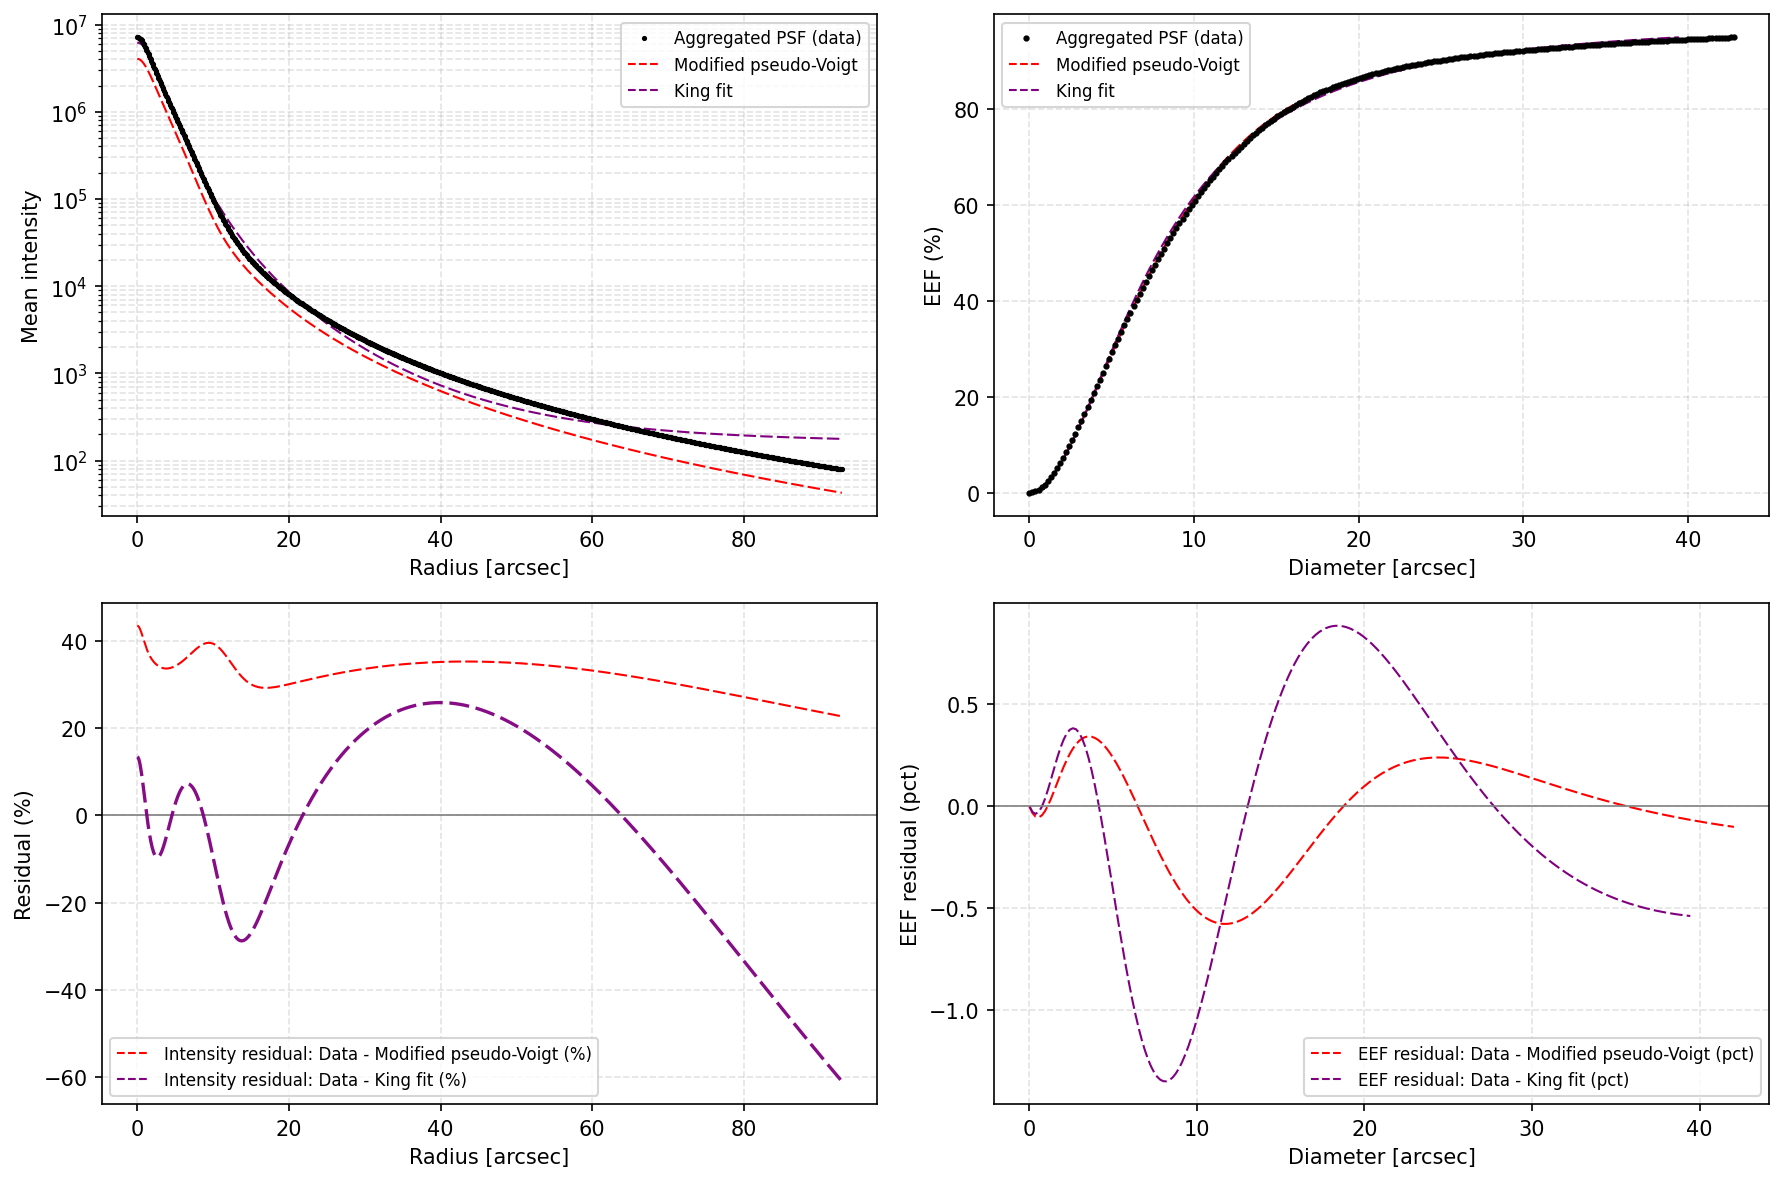
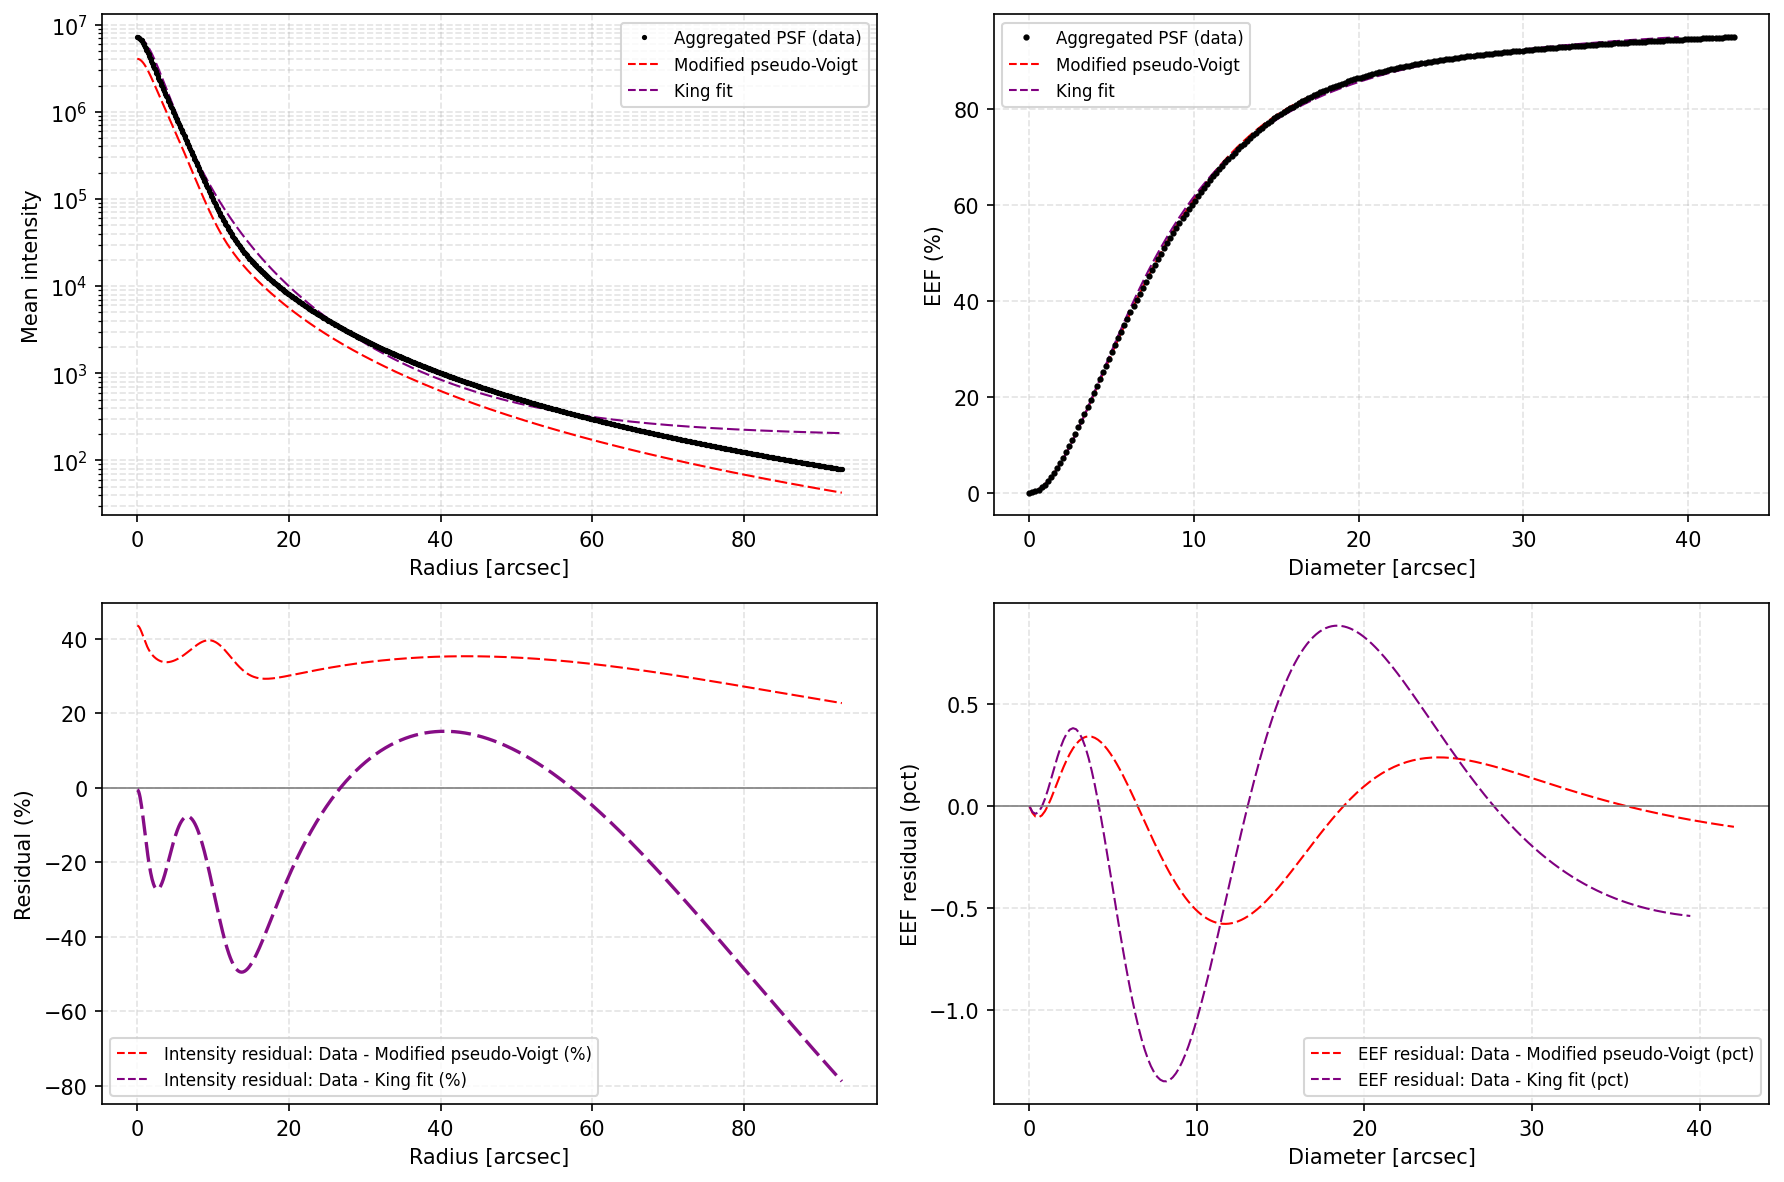
extra cmmit on the batch feature. general clean up

diff --git a/main.py b/main.py
@@ -6911,6 +6911,10 @@ if __name__ == '__main__':
         export_batch_dir = os.path.join(exports_root, f"Export_{src_stem}_{batch_ts}")
         os.makedirs(export_batch_dir, exist_ok=True)
 
+        # Prepare aggregated results collector
+        aggregated_rows = []
+        agg_columns = None
+
         for rid, crow in combos.iterrows():
             try:
                 prefix = str(crow.iat[1]).strip()
@@ -7024,6 +7028,16 @@ if __name__ == '__main__':
             except Exception as e:
                 print(f"Failed to modify workbook {new_path}: {e}")
                 continue
+
+            # Compute HEW/EEF metrics for this modified workbook (no plotting)
+            metrics = {}
+            try:
+                try:
+                    metrics = compute_hew_eef_metrics(new_path, sheet=args.sheet if hasattr(args, 'sheet') else 'MM_PSF', normalize=getattr(args, 'normalize', True), fast=True)
+                except Exception:
+                    metrics = compute_hew_eef_metrics(new_path)
+            except Exception as e:
+                print(f"Warning: failed to compute HEW/EEF metrics for {new_basename}: {e}")
 
             # Run this script on the modified workbook with --export-package
             try:
@@ -7144,6 +7158,81 @@ if __name__ == '__main__':
                                     except Exception:
                                         pass
                         print(f"Created package from export folder: {zip_target}")
+                        # Remove the package folder now that a zip archive exists
+                        try:
+                            if 'pkg_path' in locals() and os.path.isdir(pkg_path):
+                                shutil.rmtree(pkg_path)
+                                print(f"Removed intermediate package folder: {pkg_path}")
+                        except Exception as e:
+                            print(f"Warning: failed to remove package folder {pkg_path}: {e}")
+                        # Extract fit parameters and EEF curves if available and append aggregated row
+                        try:
+                            fit_map = {}
+                            eef80 = None
+                            eef90 = None
+                            if 'pkg_path' in locals() and os.path.isdir(pkg_path):
+                                fp = os.path.join(pkg_path, 'EEF_fittingparams.xlsx')
+                                if os.path.exists(fp):
+                                    try:
+                                        df_fit = pd.read_excel(fp, sheet_name='Fit_parameters', engine='openpyxl')
+                                        if 'parameter' in df_fit.columns and 'value' in df_fit.columns:
+                                            fit_map = dict(zip(df_fit['parameter'].astype(str), df_fit['value']))
+                                    except Exception:
+                                        fit_map = {}
+                                    try:
+                                        df_eef = pd.read_excel(fp, sheet_name='EEF_curves', engine='openpyxl')
+                                        if 'diameter_arcsec' in df_eef.columns and 'EEF_aggregated_pct' in df_eef.columns:
+                                            pct = pd.to_numeric(df_eef['EEF_aggregated_pct'], errors='coerce').to_numpy()
+                                            diam = pd.to_numeric(df_eef['diameter_arcsec'], errors='coerce').to_numpy()
+                                            order = np.argsort(pct)
+                                            pct_s = pct[order]
+                                            diam_s = diam[order]
+                                            if np.nanmin(pct_s) <= 80.0 <= np.nanmax(pct_s):
+                                                eef80 = float(np.interp(80.0, pct_s, diam_s))
+                                            if np.nanmin(pct_s) <= 90.0 <= np.nanmax(pct_s):
+                                                eef90 = float(np.interp(90.0, pct_s, diam_s))
+                                    except Exception:
+                                        eef80 = None
+                                        eef90 = None
+                        except Exception:
+                            fit_map = {}
+                            eef80 = None
+                            eef90 = None
+                        # Build aggregated row (include offaxis [arcmin], energy [keV], defocus [mm])
+                        try:
+                            row = {
+                                'configuration_number': int(rid) + 1,
+                                'configuration_name': prefix,
+                                'offaxis_arcmin': offaxis_val,
+                                'energy_keV': energy_val,
+                                'defocus_mm': defocus_val,
+                                'HEW_00_arcsec': metrics.get('hew_origin_arcsec') if isinstance(metrics, dict) else None,
+                                'HEW_min_arcsec': metrics.get('hew_best_arcsec') if isinstance(metrics, dict) else None,
+                                'EEF80_min_arcsec': eef80 if eef80 is not None else None,
+                                'EEF90_min_arcsec': eef90 if eef90 is not None else (metrics.get('eef90_best_arcsec') if isinstance(metrics, dict) else None),
+                            }
+                        except Exception:
+                            row = {'configuration_number': int(rid) + 1, 'configuration_name': prefix, 'offaxis_arcmin': offaxis_val, 'energy_keV': energy_val, 'defocus_mm': defocus_val}
+                        pv_keys = ['Modified_PV_Amplitude_A', 'Modified_PV_Gamma_c_arcsec', 'Modified_PV_Gamma_w_arcsec', 'Modified_PV_eta', 'Modified_PV_beta', 'Modified_PV_scalar']
+                        for k in pv_keys:
+                            row[k] = fit_map.get(k) if isinstance(fit_map, dict) else None
+                        p4_keys = ['Pearson4_Amplitude', 'Pearson4_Center_arcsec', 'Pearson4_Sigma_arcsec', 'Pearson4_Exponent_m', 'Pearson4_Skew_nu']
+                        for k in p4_keys:
+                            row[k] = fit_map.get(k) if isinstance(fit_map, dict) else None
+                        king_keys = ['King_I0', 'King_rc_arcsec', 'King_alpha', 'King_b']
+                        for k in king_keys:
+                            row[k] = fit_map.get(k) if isinstance(fit_map, dict) else None
+                        row['King_extra'] = None
+                        aggregated_rows.append(row)
+                        # Write/update aggregated Excel immediately in the export folder
+                        try:
+                            df_agg_now = pd.DataFrame(aggregated_rows)
+                            out_agg_now = os.path.join(export_batch_dir, f"Aggregated_results_{src_stem}.xlsx")
+                            with pd.ExcelWriter(out_agg_now, engine='openpyxl') as writer:
+                                df_agg_now.to_excel(writer, sheet_name='Aggregated', index=False)
+                            print(f"Updated aggregated results: {out_agg_now}")
+                        except Exception as e:
+                            print(f"Warning: failed to update aggregated Excel after {prefix}: {e}")
                     except Exception as e:
                         print(f"Failed to create package archive: {e}")
                 else:
@@ -7155,6 +7244,32 @@ if __name__ == '__main__':
                     print(f"Created fallback package (workbook only): {zip_target}")
             except Exception as e:
                 print(f"Failed to create package for {prefix}: {e}")
+
+        # Write aggregated results workbook and copy the combinations file + input workbook into the export folder
+        try:
+            if aggregated_rows:
+                try:
+                    df_agg = pd.DataFrame(aggregated_rows)
+                    out_agg = os.path.join(export_batch_dir, f"Aggregated_results_{src_stem}.xlsx")
+                    with pd.ExcelWriter(out_agg, engine='openpyxl') as writer:
+                        df_agg.to_excel(writer, sheet_name='Aggregated', index=False)
+                    print(f"Wrote aggregated results to {out_agg}")
+                except Exception as e:
+                    print(f"Failed to write aggregated results Excel: {e}")
+            # Copy combinations file used to run the batch into the export folder
+            try:
+                if os.path.exists(comb_path):
+                    shutil.copy2(comb_path, os.path.join(export_batch_dir, os.path.basename(comb_path)))
+            except Exception as e:
+                print(f"Failed to copy combinations file into export folder: {e}")
+            # Copy the original input workbook used as source for the batch
+            try:
+                if os.path.exists(args.file):
+                    shutil.copy2(args.file, os.path.join(export_batch_dir, os.path.basename(args.file)))
+            except Exception:
+                pass
+        except Exception:
+            pass
 
         # Completed batch processing
         sys.exit(0)

diff --git a/tmp_success_setup.py b/tmp_success_setup.py
@@ -1,0 +1,28 @@
+from openpyxl import Workbook
+import pandas as pd
+from pathlib import Path
+p=Path('tmp_success/Distributions/sample_input.xlsx')
+p.parent.mkdir(parents=True, exist_ok=True)
+wb=Workbook()
+# Thermal
+ws=wb.active; ws.title='Thermal'
+ws.append(['Position #','d_therm_rotx','d_therm_roty','d_therm_z'])
+ws.append([1,0.0,0.0,0.0])
+# Vignetting sheets (simple)
+ws2=wb.create_sheet('Vignetting rotrad'); ws2.append(['col1','col2','col3']); ws2.append([0,0,0])
+ws3=wb.create_sheet('Vignetting rotazi'); ws3.append(['col1','col2','col3']); ws3.append([0,0,0])
+# MM_PSF with non-zero sigmas
+ws4=wb.create_sheet('MM_PSF')
+ws4.append(['MM #','m_rad [arcsec]','m_azi [arcsec]','sigma_rad [arcsec]','sigma_azi [arcsec]','distribution'])
+ws4.append([1,0.0,0.0,0.6,0.6,'gaussian'])
+# MM configuration with non-zero r_MM
+ws_cfg=wb.create_sheet('MM configuration')
+ws_cfg.append(['MM #','x_MM [m]','y_MM [m]','r_MM [m]'])
+ws_cfg.append([1,0.05,0.05,0.07])
+# A_eff
+ws_a=wb.create_sheet('A_eff'); ws_a.append([1,1.0])
+wb.save(p)
+# combinations.xlsx
+combos=pd.DataFrame([[1,'cfgSuccess',1.0,5.0,0.1]], columns=['A','B','C','D','E'])
+combos.to_excel('tmp_success/Distributions/combinations.xlsx', index=False)
+print('created tmp_success inputs')

diff --git a/tmp_persist_setup.py b/tmp_persist_setup.py
@@ -1,0 +1,18 @@
+from openpyxl import Workbook
+import pandas as pd
+from pathlib import Path
+p=Path('tmp_persist/Distributions/sample_input.xlsx')
+p.parent.mkdir(parents=True, exist_ok=True)
+wb=Workbook()
+ws=wb.active; ws.title='Thermal'
+ws.append(['Position #','d_therm_rotx','d_therm_roty','d_therm_z'])
+ws.append([1,0.0,0.0,0.0])
+ws2=wb.create_sheet('Vignetting rotrad'); ws2.append(['col1','col2','col3']); ws2.append([0,0,0])
+ws3=wb.create_sheet('Vignetting rotazi'); ws3.append(['col1','col2','col3']); ws3.append([0,0,0])
+ws4=wb.create_sheet('MM_PSF'); ws4.append(['MM #','m_rad [arcsec]','m_azi [arcsec]','sigma_rad [arcsec]','sigma_azi [arcsec]']); ws4.append([1,0.0,0.0,1.0,1.0])
+ws_cfg=wb.create_sheet('MM configuration'); ws_cfg.append(['MM #','x_MM [m]','r_MM [m]']); ws_cfg.append([1,0.0,0.0])
+ws_a=wb.create_sheet('A_eff'); ws_a.append([1,1.0])
+wb.save(p)
+combos=pd.DataFrame([[1,'cfgTest',1.0,5.0,0.1]], columns=['A','B','C','D','E'])
+combos.to_excel('tmp_persist/Distributions/combinations.xlsx', index=False)
+print('created inputs at tmp_persist')